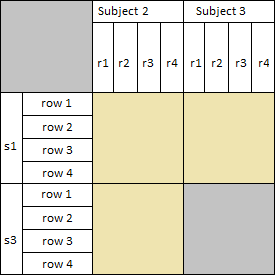
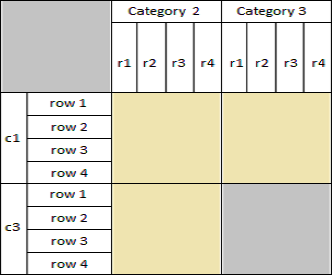
GAME FILE CREATION

diff --git a/src/GUI.java b/src/GUI.java
@@ -9,6 +9,7 @@
  *              - added more game files( game2, game3, game4)
  */
 
+import javax.imageio.ImageIO;
 import javax.swing.*;
 import javax.swing.border.CompoundBorder;
 import javax.swing.border.EmptyBorder;
@@ -18,6 +19,10 @@ import java.awt.event.ActionEvent;
 import java.awt.event.ActionListener;
 import java.awt.geom.AffineTransform;
 import java.awt.image.BufferedImage;
+import java.io.File;
+import java.io.FileNotFoundException;
+import java.io.IOException;
+import java.io.PrintWriter;
 
 /**
  * Construct a Graphical interface for a 3x4 Logic Puzzle using GameBoard data structure.
@@ -159,6 +164,7 @@ public class GUI implements ActionListener{
                 "stuck, ask for a hint(above) and an incorrect square will be highlighted or a correct square will be " +
                 "filled in for you!\n\n>> 5) You can only hit submit once so logic your way to the solution and have fun!");
         feedbackTextArea.setLineWrap(true);
+        feedbackTextArea.setWrapStyleWord(true);
         feedbackTextArea.setEditable(false);
 
         /* compose controlPanel */
@@ -203,6 +209,7 @@ public class GUI implements ActionListener{
         JTextArea infoTextArea = new JTextArea();
         infoTextArea.setPreferredSize(new Dimension((int)infoPanel.getPreferredSize().getWidth(), 300));
         infoTextArea.setLineWrap(true);
+        infoTextArea.setWrapStyleWord(true);
         infoTextArea.setEditable(false);
 
         JPanel timerPanel = new JPanel(new GridLayout(1, 1));
@@ -292,7 +299,7 @@ public class GUI implements ActionListener{
         /* Subject and row input components*/
         JPanel subjectPanel = new JPanel();
         subjectPanel.setLayout(new BoxLayout(subjectPanel, BoxLayout.Y_AXIS));
-        subjectPanel.setBorder(new LineBorder(Color.GREEN));
+        subjectPanel.setBorder(new LineBorder(Color.BLACK));
 
         // panel to hold title
         JPanel titlePanel1 = new JPanel();
@@ -319,9 +326,9 @@ public class GUI implements ActionListener{
                 blockTitles[a][b].setBorder(new LineBorder(Color.BLACK));
                 blockTitles[a][b].setPreferredSize(new Dimension(100, 25));
                 if(a == 0) {
-                    blockTitles[a][b].setText("Category Name");
+                    blockTitles[a][b].setText("Title");
                 } else {
-                    blockTitles[a][b].setText("Subset name " + a);
+                    blockTitles[a][b].setText("Row " + a);
                 }
                 subjectTextPanel.add(blockTitles[a][b]);
             }
@@ -332,7 +339,7 @@ public class GUI implements ActionListener{
         /* Answer input components */
         JPanel answerPanel = new JPanel();
         answerPanel.setLayout(new BoxLayout(answerPanel, BoxLayout.Y_AXIS));
-        answerPanel.setBorder(new LineBorder(Color.GREEN));
+        answerPanel.setBorder(new LineBorder(Color.BLACK));
 
         // panel to hold title
         JPanel titlePanel2 = new JPanel();
@@ -371,6 +378,8 @@ public class GUI implements ActionListener{
         cluePanel.setLayout(new BoxLayout(cluePanel, BoxLayout.Y_AXIS));
         JLabel clueLabel = new JLabel("Clues");
         JTextArea clueInput = new JTextArea();
+        clueInput.setLineWrap(true);
+        clueInput.setText("Clues must be delineated by new lines and start with numbers i.e. 1) Clue ~~~~ [new line]");
         clueInput.setPreferredSize(new Dimension(300, 200));
         cluePanel.add(clueLabel);
         cluePanel.add(clueInput);
@@ -380,12 +389,20 @@ public class GUI implements ActionListener{
         storyPanel.setLayout(new BoxLayout(storyPanel, BoxLayout.Y_AXIS));
         JLabel storyLabel = new JLabel("Story");
         JTextArea storyInput = new JTextArea();
+        storyInput.setLineWrap(true);
+        storyInput.setText("Add story as a single line, no new line character except at the end.");
         storyInput.setPreferredSize(new Dimension(300, 200));
         storyPanel.add(storyLabel);
         storyPanel.add(storyInput);
         /* Detail image */
         JPanel imagePanel = new JPanel(new GridLayout(1,1));
         JLabel imageDisplayLabel = new JLabel();
+        try {
+            Image detailImage = ImageIO.read(new File("Square Images\\Detail.png"));
+            imageDisplayLabel.setIcon(new ImageIcon(detailImage));
+        } catch (IOException e) {
+            throw new RuntimeException(e);
+        }
         imagePanel.add(imageDisplayLabel);
 
         inputPanel.add(subjectPanel);
@@ -640,12 +657,104 @@ public class GUI implements ActionListener{
                 ta.setText(text);
                 break;
             case "Create": // create a new game file from data input into game creation window
-                // make the game file
+                createGameFile();
                 break;
             case "Cancel": // cancel creating a new game file
                 switchWindow("Menu");
                 break;
         }
 
+    }
+
+    /**
+     * creates a new game file from inputs on game creation window.
+     * no protection or error checking.
+     */
+    private void createGameFile() {
+        File directory = new File("Game files");
+        int count = directory.listFiles().length;
+        String filepath = ("Game" + (count + 1));
+        File newGameFile = new File(filepath);
+        try {
+            newGameFile.createNewFile();
+        } catch (IOException e) {
+            throw new RuntimeException(e);
+        }
+
+        PrintWriter pw;
+        try {
+            pw = new PrintWriter(newGameFile);
+        } catch (FileNotFoundException e) {
+            throw new RuntimeException(e);
+        }
+
+        if(pw != null) {
+            String blockRowTitle;
+            String[] rowTitles;
+            String blockColTitle;
+            String[] columnTitles;
+            String story;
+            String[] clues;
+            String[] answer;
+
+            JPanel inputComponents = (JPanel) this.gameCreationRootPane.getComponent(1); // input panel
+
+            /* Component hierarchy
+                0 - subjectPanel
+                    0 - titlePanel1
+                    1 - subjectLabelPanel
+                    2 - subjectTextPanel
+                        [0,1,2] titles
+                        [3,6,9,12] - cat 1
+                        [4,7,10,13] - cat 2
+                        [5,8,11,14] - cat 3
+                1 - imagePanel
+                2 - answerPanel
+                     0 - titlePanel2
+                     1 - answerLabelPanel
+                     2 - answerTextPanel
+                        [0,1,2] titles
+                        [3,6,9,12] - cat 1
+                        [4,7,10,13] - cat 2
+                3 - cluePanel
+                    0 - clueLabel
+                    1 - clueInput
+                4 - storyPanel
+                    0 - storyLabel
+                    1 - storyInput
+             */
+
+            pw.write("BLOCKS");
+            // CAT 1 ROW TITLE
+            // CAT 1 ROW TITLES
+            // CAT 2 COL TITLE
+            // CAT 2 COL TITLES
+            // BLOCK 1 TRUE ROW
+
+            // CAT 1 ROW TITLE
+            // CAT 1 ROW TITLES
+            // CAT 3 COL TITLE
+            // CAT 3 COL TITLES
+            // BLOCK 2 TRUE ROW
+
+            // CAT 3 ROW TITLE
+            // CAT 3 ROW TITLES
+            // CAT 2 COL TITLE
+            // CAT 2 COL TITLES
+            // BLOCK 3 TURE ROWS
+
+            pw.write("CLUES");
+            // DELINEATE CLUES BY NEW LINES
+
+            pw.write("STORY");
+            // ONE LINE
+
+            pw.write("ANSWER");
+            // DELINEATE BY ,
+
+            pw.write("END");
+
+
+        }
     }
 }

diff --git a/src/LogicGameThreeByFour.java b/src/LogicGameThreeByFour.java
@@ -161,7 +161,8 @@ public class LogicGameThreeByFour implements ActionListener {
     }
 
     /**
-     * Open file selection window and retrieve game file
+     * Open file selection window and retrieve game file.
+     * No error check or safety for selecting a file that isn't a game file.
      */
     private File importGameBoard() {
         JFileChooser fileChooser = new JFileChooser("Game Files");
